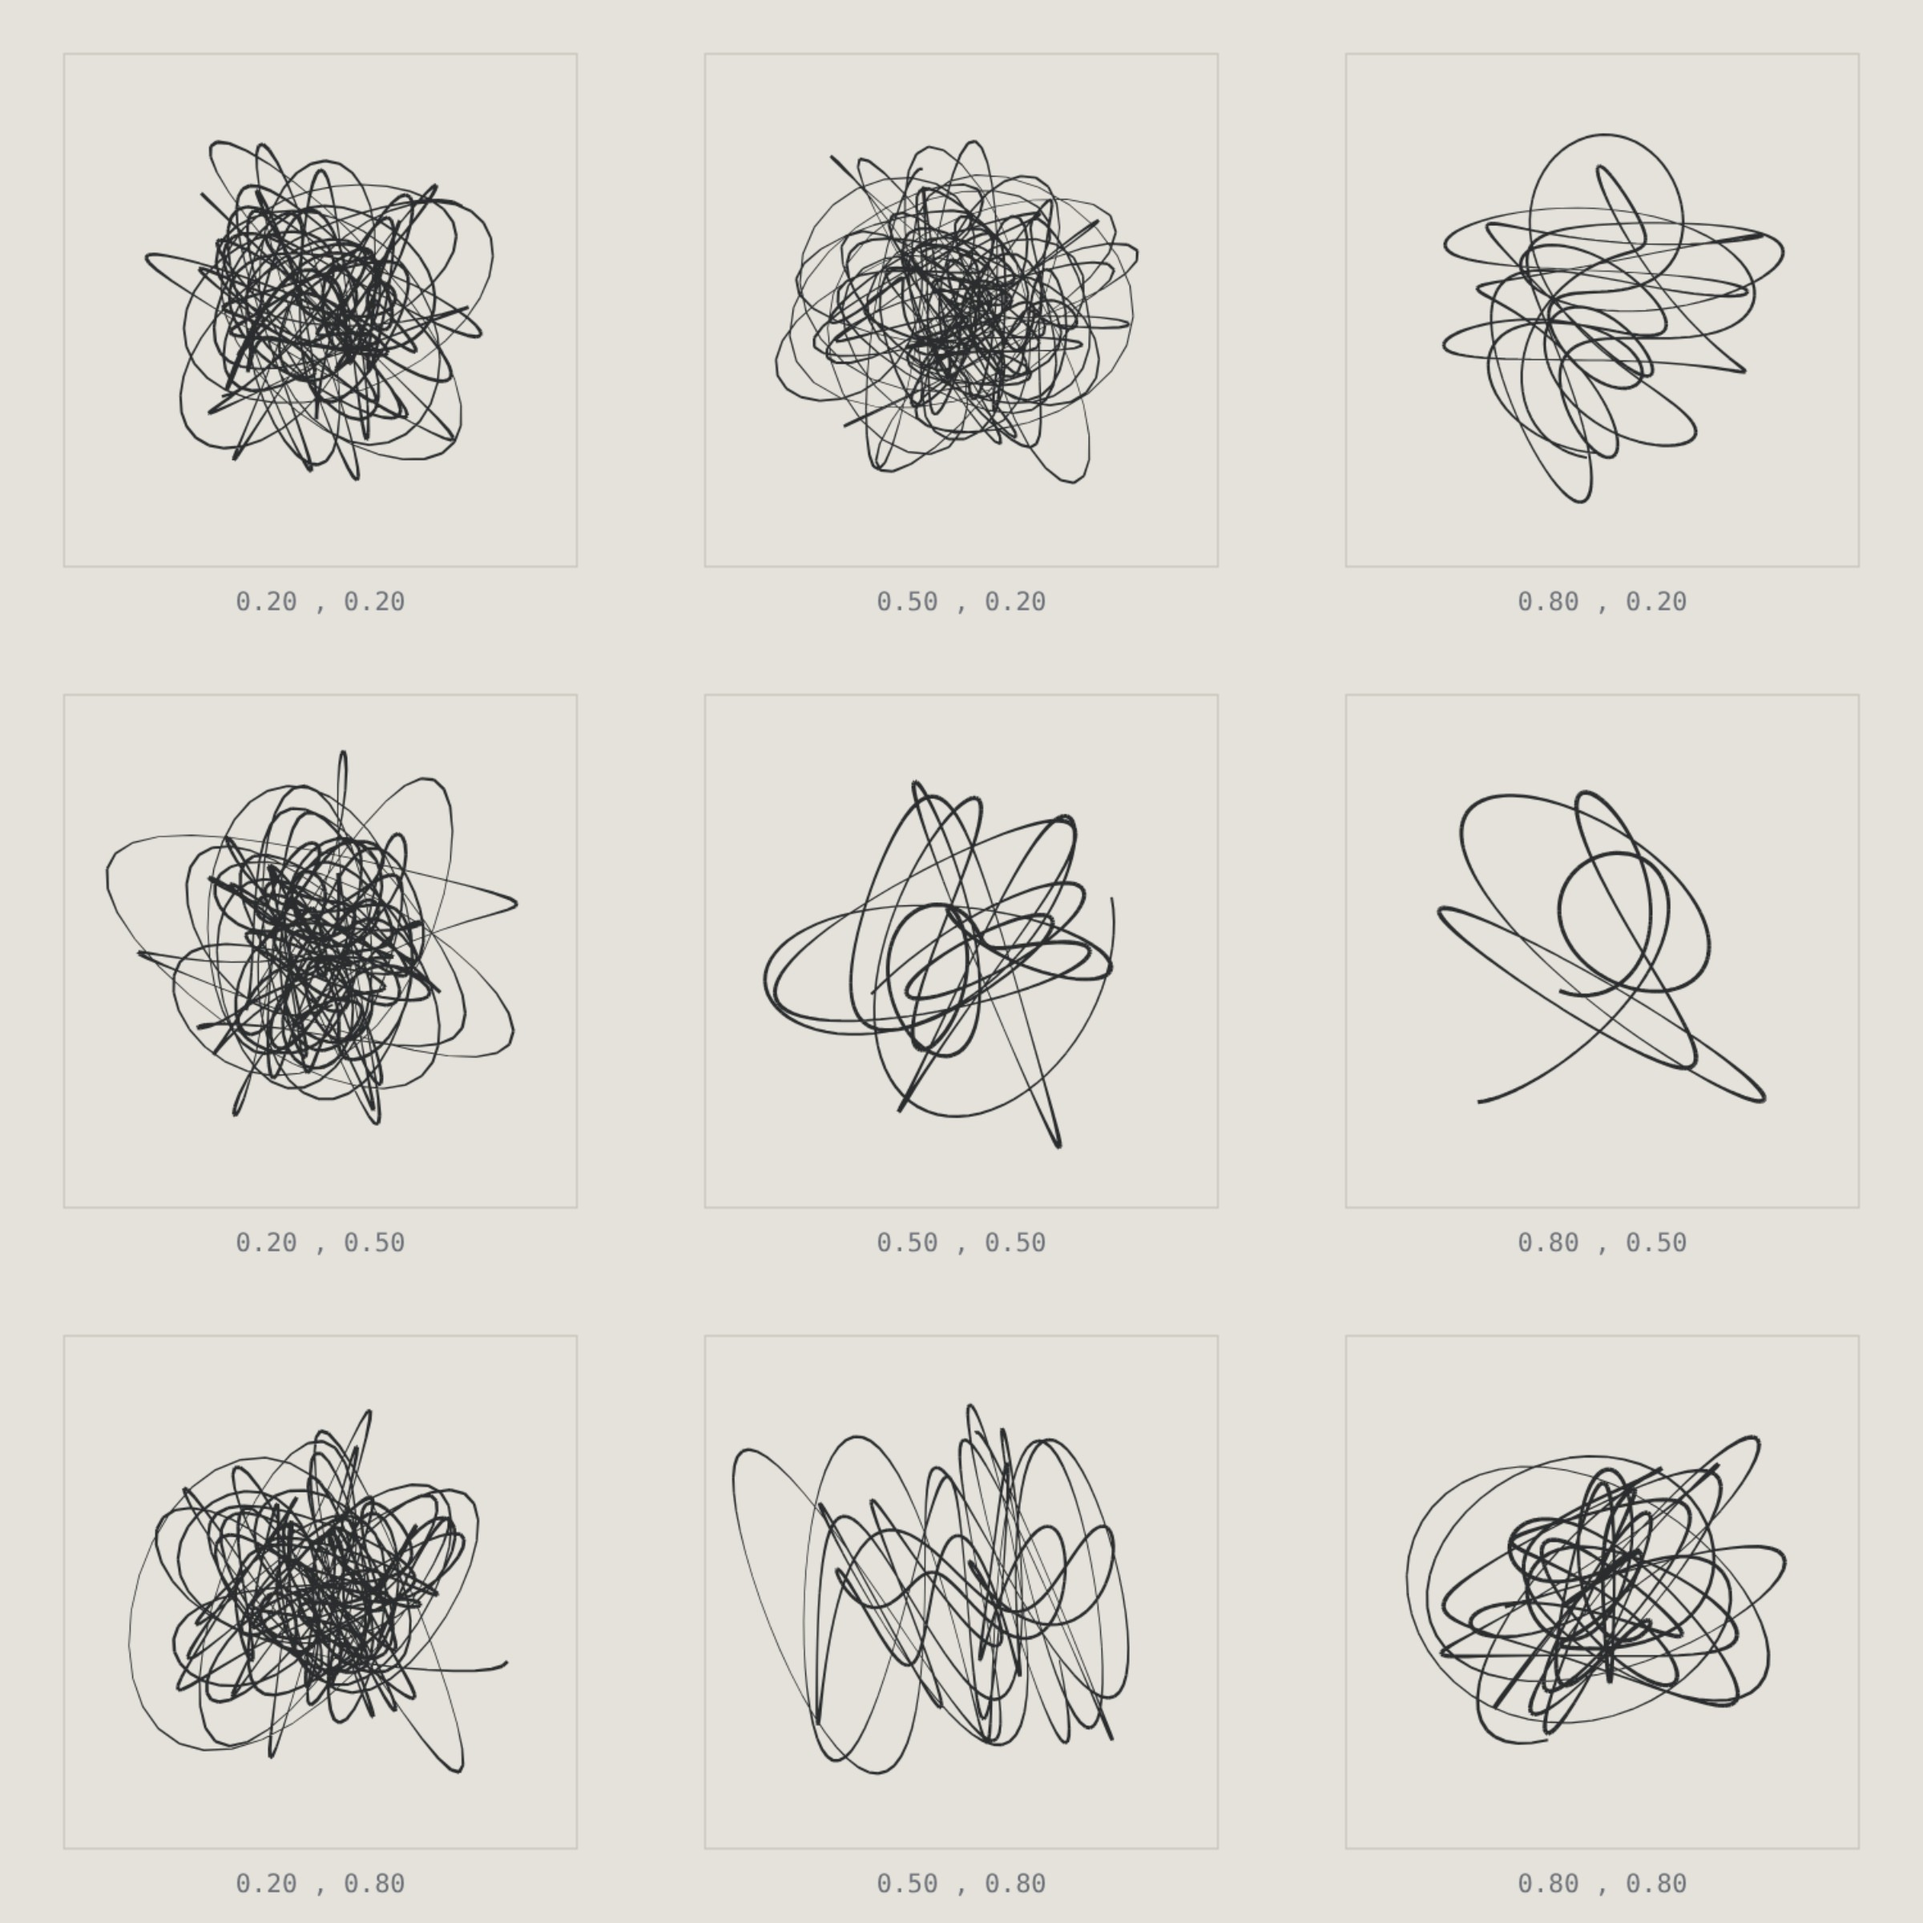
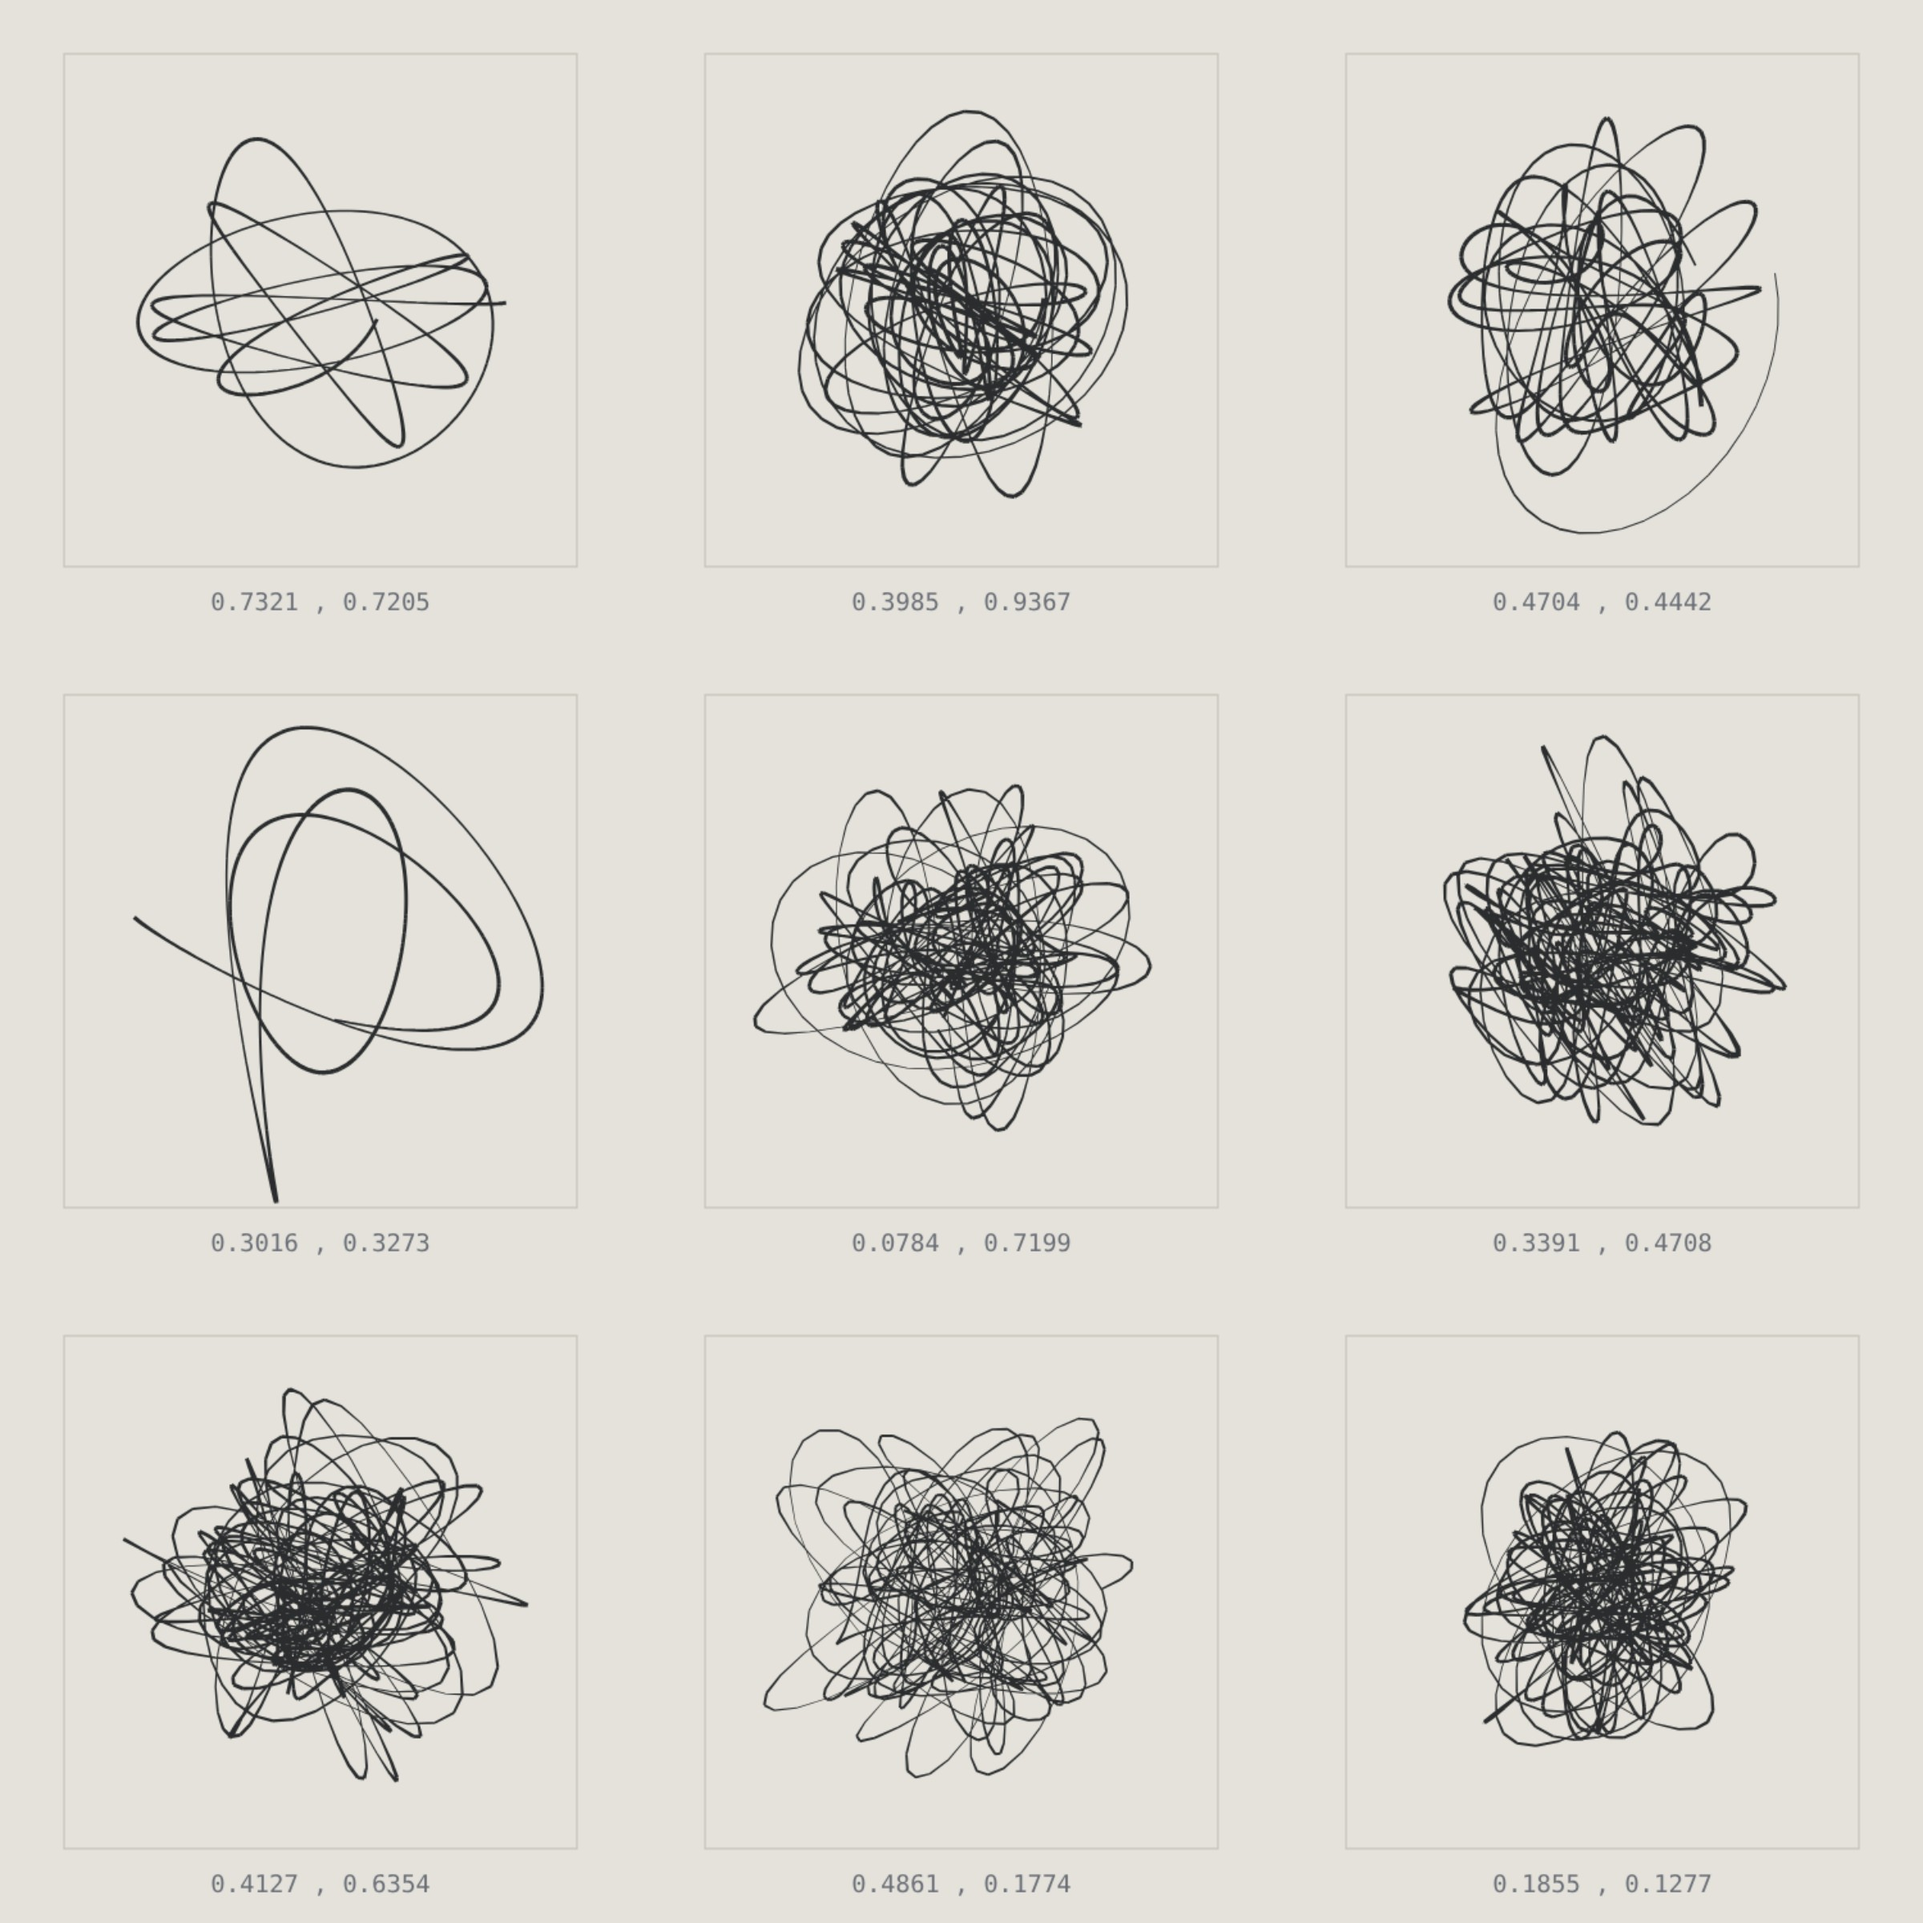
Use real machine coordinates in the works grid
The grid labels were 2-decimal round samples (0.20, 0.50, 0.80) — shorter and
tidier than the site's coordinates. Swapped to nine real works fetched from the
machine (coordFor at spread serials), labelled with their true coordinates to
4 decimals to match the certificate readout. Caption updated accordingly.

Claude-Session: https://claude.ai/code/session_01Nw7qtoZF13e3psvrqjndaA

diff --git a/content/swedish/works/meta-matic/index.md b/content/swedish/works/meta-matic/index.md
@@ -33,7 +33,7 @@ client:
 
 1959 byggde **Jean Tinguely** maskiner som ritade abstrakt konst på löpande band — _Méta-Matics_, ett skämt om det spontana geniet. Méta-Matic ∞ är samma skämt, omställt för AI-eran. Maskinen ritar också. Men den _slumpar_ inte fram sina verk; den _hämtar_ dem ur ett kontinuerligt rum där varje möjlig teckning redan är en punkt. Att gå framåt är att interpolera. Frågan är inte längre Tinguelys "vad är konst när en maskin kan göra det?" utan: **oändligt många, aldrig något nytt — var finns originalet?**
 
-![Nio verk samplade jämnt över det latenta rummet.](meta-matic-grid.jpg "Nio punkter samplade jämnt över det latenta rummet. Olika på ytan — öppna slingor, täta nystan — och ändå bara koordinater i samma rum. Ingen av dem är ny.")
+![Nio verk ur maskinen, med sina koordinater.](meta-matic-grid.jpg "Nio verk ur maskinen, var och en med sin koordinat. Olika på ytan — öppna slingor, täta nystan — och ändå bara punkter i samma rum. Ingen av dem är ny.")
 
 Varje verk ritas med staplade epicykler vars parametrar hämtas ur ett kontinuerligt brusfält — grannkoordinater ger nästan identiska teckningar, så bandet **morfar** snarare än hoppar. Och det drivs av väggklockan, inte av besökaren: serienumret är en funktion av tiden, alltså samma verk för alla just nu, helt utan server. Du kan titta bort, men inte stoppa maskinen — räknaren tickar vidare, och när du tittar tillbaka har den ritat utan dig. "Verk producerade" stiger. **Original förblir noll.**
 
